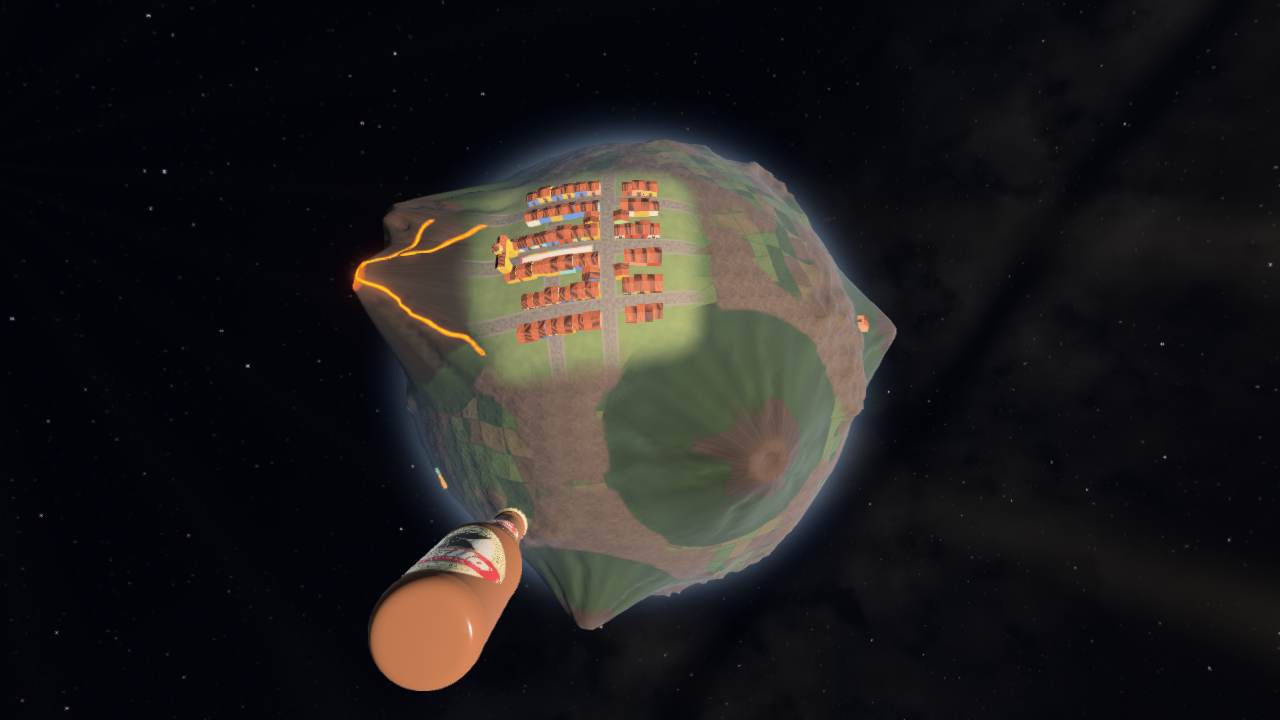
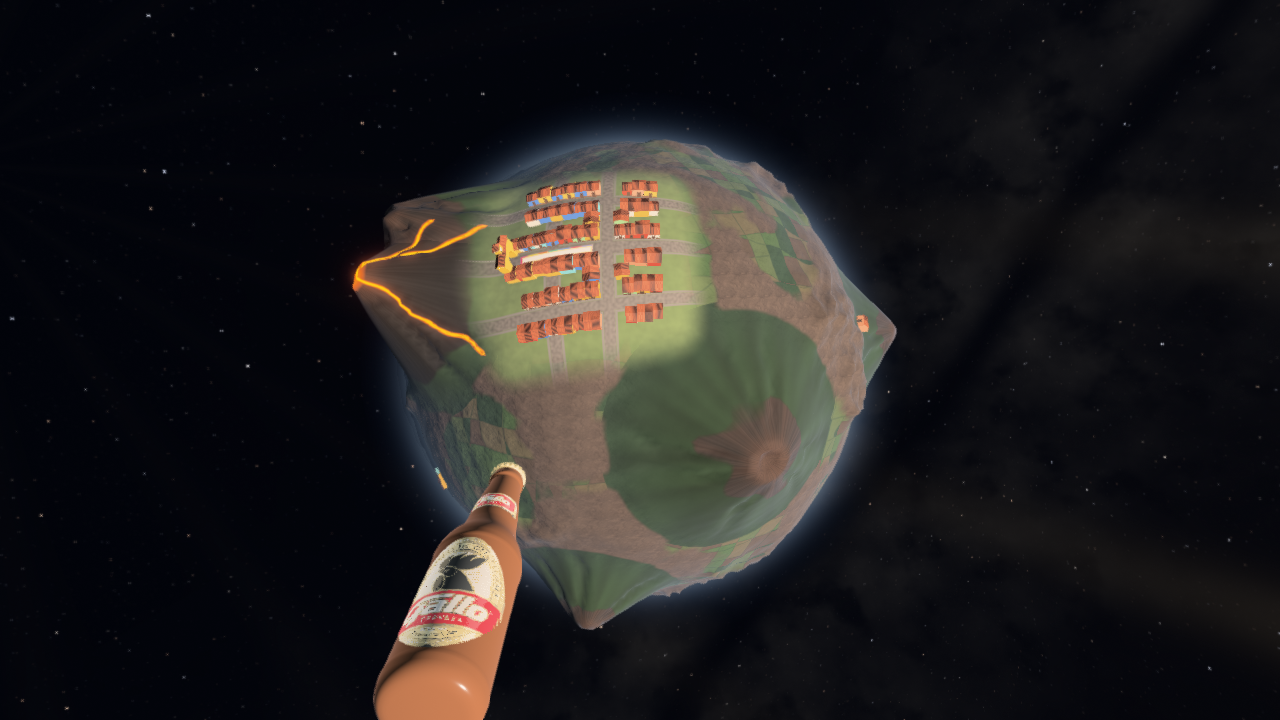
Rehacer la Torre del Reformador como la de verdad, llegar de dia a los lugares chapines con N e inclinar las botellas para que se vea la etiqueta

Changed region(s): [[0.2812, 0.6417, 0.4375, 1.0]]

diff --git a/src/chapin/capital.rs b/src/chapin/capital.rs
@@ -1050,24 +1050,24 @@ pub fn mesh(kind: PropKind, detail: usize) -> Mesh {
     }
 }
 
-/// Alto del fuste de la torre, de la plataforma y de la punta del mastil.
+/// Alto del fuste de la torre, de sus dos plataformas y de la punta del
+/// faro. La de verdad mide unos 72 m: aqui una unidad son unos 3 m.
 const SHAFT: f32 = 19.5;
-const PLATFORM: f32 = 5.2;
-const TOWER_TOP: f32 = 23.5;
+const PLATFORM: f32 = 5.0;
+const PLATFORM_2: f32 = 11.5;
+const TOWER_TOP: f32 = 22.3;
 
-/// Media anchura de la torre a la altura `y`: abajo se abre en curva y de
-/// la plataforma para arriba se cierra derecha.
+/// Media anchura de la torre a la altura `y`. Como la torre Eiffel, en la
+/// que se inspira: una curva exponencial que se abre mucho abajo (las patas
+/// quedan a los lados de la 7a Avenida y los arcos pasan sobre ella) y se
+/// cierra despacio hacia arriba.
 fn tower_half(y: f32) -> f32 {
-    if y < PLATFORM {
-        1.9 + 1.7 * (1.0 - y / PLATFORM).powf(1.8)
-    } else {
-        1.9 + (0.55 - 1.9) * (y - PLATFORM) / (SHAFT - PLATFORM)
-    }
+    0.5 + 3.7 * (-y / 5.0).exp()
 }
 
-/// La Torre del Reformador: cuatro patas que se abren abajo en arcos sobre
-/// la avenida y la calle, la plataforma, el fuste de celosia con diagonales
-/// en cruz, el campanario con su campana y el mastil con la luz.
+/// La Torre del Reformador: cuatro patas de acero que se abren abajo en
+/// arcos sobre la avenida y la calle, dos plataformas, el fuste de celosia
+/// con diagonales en cruz, el campanario con su campana y el faro arriba.
 fn tower(detail: usize) -> Mesh {
     let mut b = MeshBuilder::new();
     b.color(Vec3::new(IRON, 0.0, 0.0));
@@ -1076,13 +1076,11 @@ fn tower(detail: usize) -> Mesh {
         let r = tower_half(y);
         Vec3::new(corners[k].0 * r, y, corners[k].1 * r)
     };
-    // Las patas: vigas que siguen la curva.
-    let steps = [5, 8, 12][detail];
+    // Las patas: vigas que siguen la curva, con mas tramos abajo, donde
+    // mas se dobla.
+    let steps = [6, 10, 16][detail];
     let heights: Vec<f32> = (0..=steps)
-        .map(|i| {
-            let t = i as f32 / steps as f32;
-            if t < 0.5 { PLATFORM * t * 2.0 } else { PLATFORM + (SHAFT - PLATFORM) * (t - 0.5) * 2.0 }
-        })
+        .map(|i| SHAFT * (i as f32 / steps as f32).powf(1.6))
         .collect();
     for k in 0..4 {
         for w in heights.windows(2) {
@@ -1116,14 +1114,16 @@ fn tower(detail: usize) -> Mesh {
             }
         }
     }
-    // La plataforma: un marco cuadrado con baranda.
-    for k in 0..4 {
-        let (a, c) = (leg(k, PLATFORM), leg((k + 1) % 4, PLATFORM));
-        let out = (a + c) * 0.5;
-        let push = Vec3::new(out.x, 0.0, out.z).normalize() * 0.25;
-        beam(&mut b, a + push, c + push, 0.18);
-        if detail >= 1 {
-            beam(&mut b, a + push * 1.6 + Vec3::Y * 0.7, c + push * 1.6 + Vec3::Y * 0.7, 0.05);
+    // Las plataformas: marcos cuadrados con baranda.
+    for (level, thick) in [(PLATFORM, 0.18), (PLATFORM_2, 0.12)] {
+        for k in 0..4 {
+            let (a, c) = (leg(k, level), leg((k + 1) % 4, level));
+            let out = (a + c) * 0.5;
+            let push = Vec3::new(out.x, 0.0, out.z).normalize() * 0.25;
+            beam(&mut b, a + push, c + push, thick);
+            if detail >= 1 {
+                beam(&mut b, a + push * 1.6 + Vec3::Y * 0.6, c + push * 1.6 + Vec3::Y * 0.6, 0.04);
+            }
         }
     }
     // El fuste: travesanos en cada piso y diagonales en cruz.
@@ -1304,8 +1304,9 @@ pub fn shade_prop(kind: PropKind, f: &Fragment, u: &Uniforms, style: &PropStyle,
     }
 }
 
-/// La torre: hierro pintado de rojo oxido, con chorreones; la campana de
-/// bronce y la luz de arriba que destella. De noche, reflectores desde abajo.
+/// La torre: acero galvanizado gris, mas oscuro donde la intemperie lo
+/// mancha; la campana de bronce y el faro de arriba que destella. De noche,
+/// reflectores desde abajo.
 fn tower_shade(f: &Fragment, u: &Uniforms, _style: &PropStyle, sun: Vec3) -> Vec3 {
     let p = f.local;
     match material(f) {
@@ -1316,8 +1317,8 @@ fn tower_shade(f: &Fragment, u: &Uniforms, _style: &PropStyle, sun: Vec3) -> Vec
         }
         _ => {
             let weather = u.noise.fbm(p * Vec3::new(1.5, 0.4, 1.5), 3) * 0.5 + 0.5;
-            let paint = Vec3::new(0.3, 0.06, 0.035).lerp(Vec3::new(0.16, 0.05, 0.03), smoothstep(0.45, 0.75, weather));
-            let lit = pbr::shade_light(f, u, paint, 0.5, 0.25, f.normal, 1.0, sun);
+            let paint = Vec3::new(0.36, 0.37, 0.39).lerp(Vec3::new(0.2, 0.21, 0.22), smoothstep(0.45, 0.75, weather));
+            let lit = pbr::shade_light(f, u, paint, 0.45, 0.6, f.normal, 1.0, sun);
             let night = prop_night(f, u);
             let flood = (1.0 - p.y / TOWER_TOP).max(0.0).powf(1.5);
             lit + paint * Vec3::new(1.0, 0.8, 0.6) * (night * flood * 3.0 * u.gains.cementerio)

diff --git a/src/app.rs b/src/app.rs
@@ -929,7 +929,12 @@ impl App {
         }
         self.next_site = (self.next_site + 1) % self.system.sites.len();
         let site = self.system.sites[self.next_site];
-        let time = self.time();
+        // En la version chapina se llega de dia (ahi no hay final que se
+        // adelante); en OCASO, a la hora que sea.
+        let time = match self.system.version {
+            Version::Chapin => daylight_at(&self.system, &site, self.time()),
+            Version::Ocaso => self.time(),
+        };
         let (altitude, back, lift) = site.view;
         self.apply_preset(&Preset {
             name: "lugar",
@@ -1122,8 +1127,12 @@ impl App {
             Some(bottle) => {
                 self.system.ship_mesh = [bottle.mesh; 3];
                 self.system.ship_material = Material::Bottle;
+                // Con la boca un poco hacia arriba: desde la camara, que va
+                // atras y arriba, se ve la etiqueta y no solo el fondo.
+                self.system.ship_fix = DQuat::from_axis_angle(DVec3::X, BOTTLE_PITCH);
             }
             None => {
+                self.system.ship_fix = DQuat::IDENTITY;
                 self.system.ship_mesh = [1, 2, 3];
                 self.system.ship_material = Material::Ship(crate::shaders::ShipStyle {
                     specular: 0.5,
@@ -1972,10 +1981,12 @@ impl App {
         if show_ship && self.throttle > 0.01 {
             let start = out.len();
             out.resize(start + EXHAUST_COUNT, blank);
+            // Sale del fondo de la nave tal como se dibuja (las botellas van
+            // inclinadas).
             effects::exhaust(
                 &mut out[start..],
                 ship_pos,
-                ship_rot,
+                ship_rot * self.system.ship_fix,
                 self.throttle,
                 config::SHIP_LENGTH,
                 t,
@@ -2353,6 +2364,9 @@ struct Transition {
     toward: Toward,
 }
 
+/// Cuanto se inclinan las naves botella con la boca hacia arriba (radianes).
+const BOTTLE_PITCH: f64 = 0.38;
+
 /// Segundos que se ve el titulo de la transicion (la cortina dura menos).
 const TITLE: f32 = 2.6;
 
@@ -2612,6 +2626,27 @@ fn eye_crown(look: &ArgosLook, radius: f64, field: &dyn crate::terrain::HeightFi
             }
         })
         .collect()
+}
+
+/// El primer instante desde `from` en que el sol esta bien alto sobre el
+/// lugar `site` (entre unos 27 y 53 grados): el planeta gira y orbita, asi
+/// que se busca hacia adelante, hasta un par de vueltas del planeta. Si en
+/// ese rato nunca se da (Pira le da siempre la misma cara a la estrella),
+/// se queda en `from`.
+fn daylight_at(system: &System, site: &crate::scene::Site, from: f64) -> f64 {
+    let body = &system.bodies[site.body];
+    let star = &system.bodies[0];
+    let height = |t: f64| {
+        let up = body.rotation(t).rotate(site.normal);
+        let ground = body.position(t) + up * body.radius;
+        up.dot((star.position(t) - ground).normalize())
+    };
+    let span = 2.5 * body.spin_period.abs().max(1.0);
+    let step = span / 600.0;
+    (0..=600)
+        .map(|k| from + k as f64 * step)
+        .find(|&t| (0.45..0.8).contains(&height(t)))
+        .unwrap_or(from)
 }
 
 /// Gira `from` hacia `to` (unitarios) una fraccion del angulo entre ellos,
@@ -2928,6 +2963,26 @@ fn build_draws<'a>(
 
 #[cfg(test)]
 mod tests {
+    /// En la version chapina, N llega a cada lugar de dia (menos Antigua,
+    /// en Pira, que le da siempre la misma cara a la estrella y ya esta de
+    /// dia).
+    #[test]
+    fn in_the_chapin_version_sites_are_visited_in_daylight() {
+        let mut app = App::new(64, 36).unwrap();
+        let p = PRESETS.iter().find(|p| p.name == "40_chapin").unwrap();
+        app.apply_preset(p);
+        for _ in 0..app.system.sites.len() {
+            app.visit_next_site();
+            let site = app.system.sites[app.next_site];
+            let body = &app.system.bodies[site.body];
+            let t = app.sim_time;
+            let up = body.rotation(t).rotate(site.normal);
+            let ground = body.position(t) + up * body.radius;
+            let sun = up.dot((app.system.bodies[0].position(t) - ground).normalize());
+            assert!(sun > 0.2, "{}: el sol esta a {sun:.2}", site.name);
+        }
+    }
+
     use super::*;
 
     #[test]

diff --git a/src/shaders/ship.rs b/src/shaders/ship.rs
@@ -48,12 +48,15 @@ pub fn shade(f: &Fragment, u: &Uniforms, s: &ShipStyle) -> Vec3 {
 
 /// Las naves botella: el color de cada cara viene del `.mtl` (vidrio,
 /// etiquetas, chapa). Todo es liso y pulido: el vidrio refleja el cielo con
-/// Fresnel y la estrella deja un brillo fino.
+/// Fresnel y la estrella deja un brillo fino. El vidrio deja pasar la luz:
+/// a contraluz brilla de su color, y siempre un poco, para que la botella
+/// no se pierda en la sombra.
 pub fn bottle(f: &Fragment, u: &Uniforms) -> Vec3 {
     let albedo = f.color;
     let lit = pbr::shade(f, u, albedo, 0.16, 0.0, f.normal, 1.0);
-    // Un borde claro de vidrio, aunque la estrella este atras.
     let v = f.view_dir();
     let rim = (1.0 - f.normal.dot(v).abs()).powi(4);
-    lit + (albedo * 0.5 + Vec3::splat(0.04)) * rim * 0.25
+    let through = (-f.normal.dot(f.light_dir(u))).max(0.0);
+    let glow = albedo * (u.sun_light * (0.35 * through) + Vec3::splat(0.06));
+    lit + glow + (albedo * 0.5 + Vec3::splat(0.04)) * rim * 0.35
 }

diff --git a/src/scene/mod.rs b/src/scene/mod.rs
@@ -19,4 +19,4 @@ pub use icosphere::icosphere;
 pub use mesh::{Mesh, NO_TANGENT};
 pub use obj::load_obj;
 pub use ribbon::ribbon;
-pub use system::{nearest_surface, Body, Rings, System, Version};
+pub use system::{nearest_surface, Body, Rings, Site, System, Version};

diff --git a/EXPLICACION.md b/EXPLICACION.md
@@ -37,9 +37,21 @@
   filas en paralelo sobre la imagen ya terminada. La V también quita el
   título del principio para que no se encime con el de la transición.
 - **Las naves botella**: OBJ de Blender (Z arriba, etiqueta hacia +Y)
-  girados al cargar para volar con el pico adelante; su shader usa el color
-  de cada cara (`Kd`) con vidrio pulido y un borde de Fresnel. Cada una tiene
-  su escape (`effects::Exhaust`).
+  girados al cargar para volar con el pico adelante, y dibujados con la boca
+  22 grados hacia arriba (`System::ship_fix`): la cámara va atrás y arriba,
+  y así ve la etiqueta y no solo el fondo. Su shader usa el color de cada
+  cara (`Kd`) con vidrio pulido, un borde de Fresnel y la luz que pasa por
+  el vidrio a contraluz. Cada una tiene su escape (`effects::Exhaust`), que
+  sale del fondo de la botella inclinada.
+- **Los lugares de día**: cada lugar está fijo en su planeta y el planeta
+  gira, así que en la versión chapina N busca hacia adelante el primer
+  momento (hasta dos vueltas y media del planeta) en que el sol está entre
+  unos 27 y 53 grados sobre el lugar, y llega ahí (`daylight_at`).
+- **La Torre del Reformador** ([chapin/capital.rs](src/chapin/capital.rs)):
+  como la Eiffel, en la que se inspira, la media anchura de la torre a cada
+  altura es una exponencial (`0.5 + 3.7 e^(-y/5)`): las patas se abren abajo,
+  a los lados de la 7a Avenida, con arcos que pasan sobre ella, y se cierran
+  despacio hacia el faro. Acero galvanizado gris.
 - **El reproductor** ([player.rs](src/player.rs)): raylib solo decodifica y
   reproduce. Los archivos se leen con Rust y se le pasan desde memoria,
   porque en Windows raylib abre rutas con la página de códigos ANSI y una

diff --git a/README.md b/README.md
@@ -69,7 +69,7 @@ las sombras tienen más relleno.
 | Párpado | **Semuc Champey**: pozas turquesa en terrazas de caliza entre la selva | **Las pozas** |
 | Argos | **Los Cuchumatanes**: sierra con helada al amanecer y pinos; en su anillo, los barriletes gigantes de Sumpango | **San Andrés Xecul**: la iglesia amarilla con sus columnas de colores, ángeles, enredaderas y cúpulas de gajos (todo pintado por el shader) |
 | — | **La Luna de Xelajú**, luna de los Cuchumatanes, con un tejido de huipil que brilla de noche | — |
-| Cementerio | **La capital**: barrancos, cuadras y luces; en su anillo, camionetas y tuc-tucs dando vueltas | **El Reformador**: la torre, camionetas extraurbanas y edificios |
+| Cementerio | **La capital**: barrancos, cuadras y luces; en su anillo, camionetas y tuc-tucs dando vueltas | **El Reformador**: la torre de acero tipo Eiffel con sus arcos sobre la 7a Avenida, camionetas extraurbanas pasando abajo y edificios |
 
 **Las naves botella** (modeladas en Blender para este proyecto): Gallo,
 Cabro Reserva, Jägermeister, Blue Label, Cubata Uva y Four Loko. **B** pasa a
@@ -134,7 +134,7 @@ cargo test --release                          # pruebas de vuelo, raster, sombra
 | Turbo | Shift |
 | **Freno de emergencia** (prioridad sobre turbo y crucero) | **X sostenida** |
 | **Recuperar posicion** junto a Pira, conservando el ciclo | **Inicio / Home** |
-| **Viajar al siguiente lugar** (claro, géiseres, nido, baliza, espejo) | **N** |
+| **Viajar al siguiente lugar** (claro, géiseres, nido, baliza, espejo; en la versión chapina se llega de día) | **N** |
 | Acercar / alejar la cámara | Rueda |
 | Cámara de persecución / cabina | C |
 | Asistente de vuelo / gravedad | Z / G |
